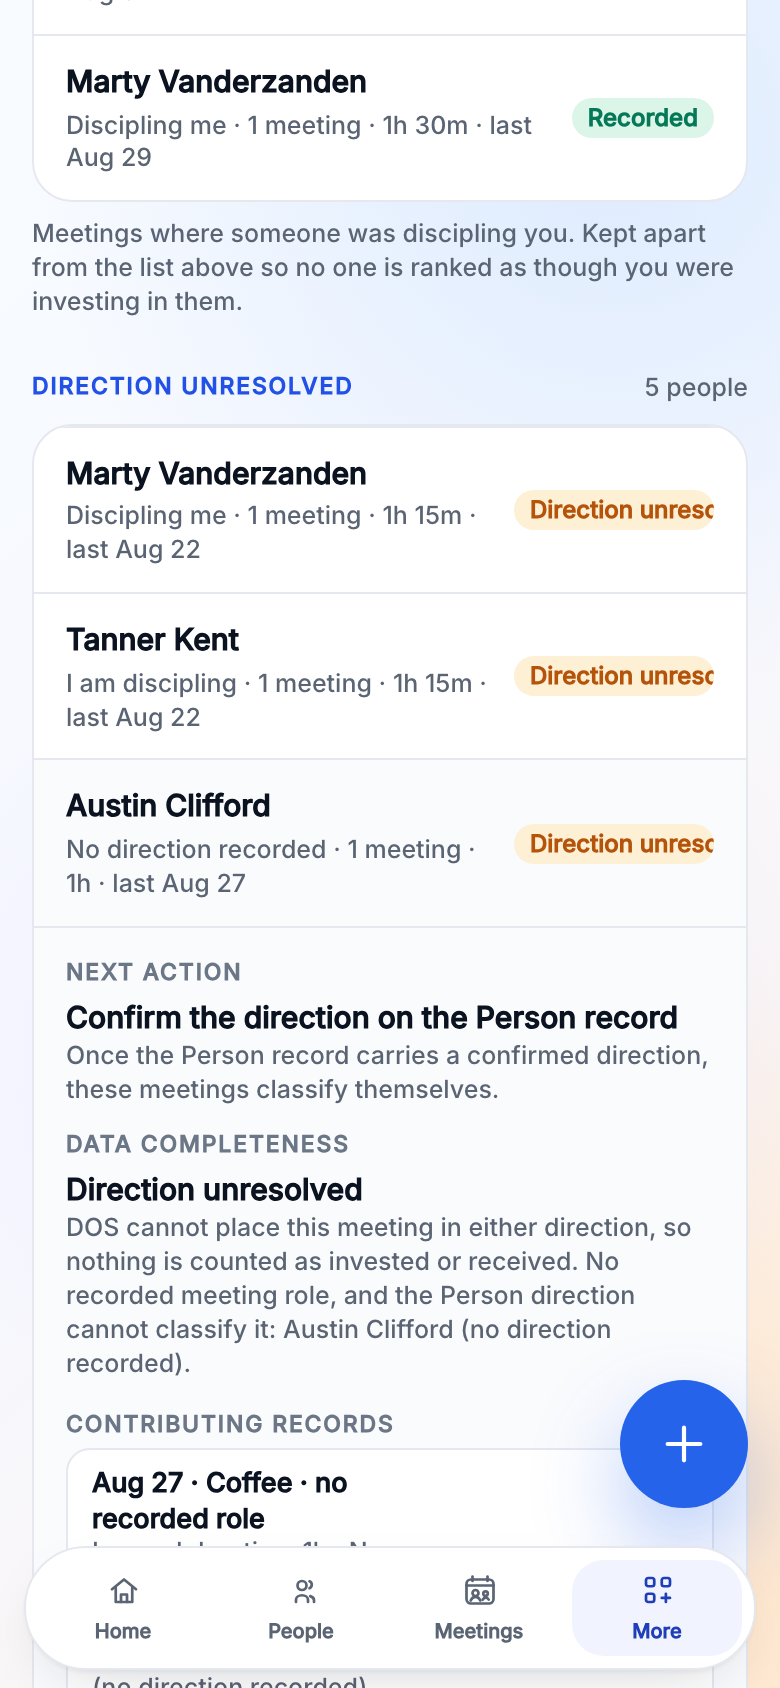
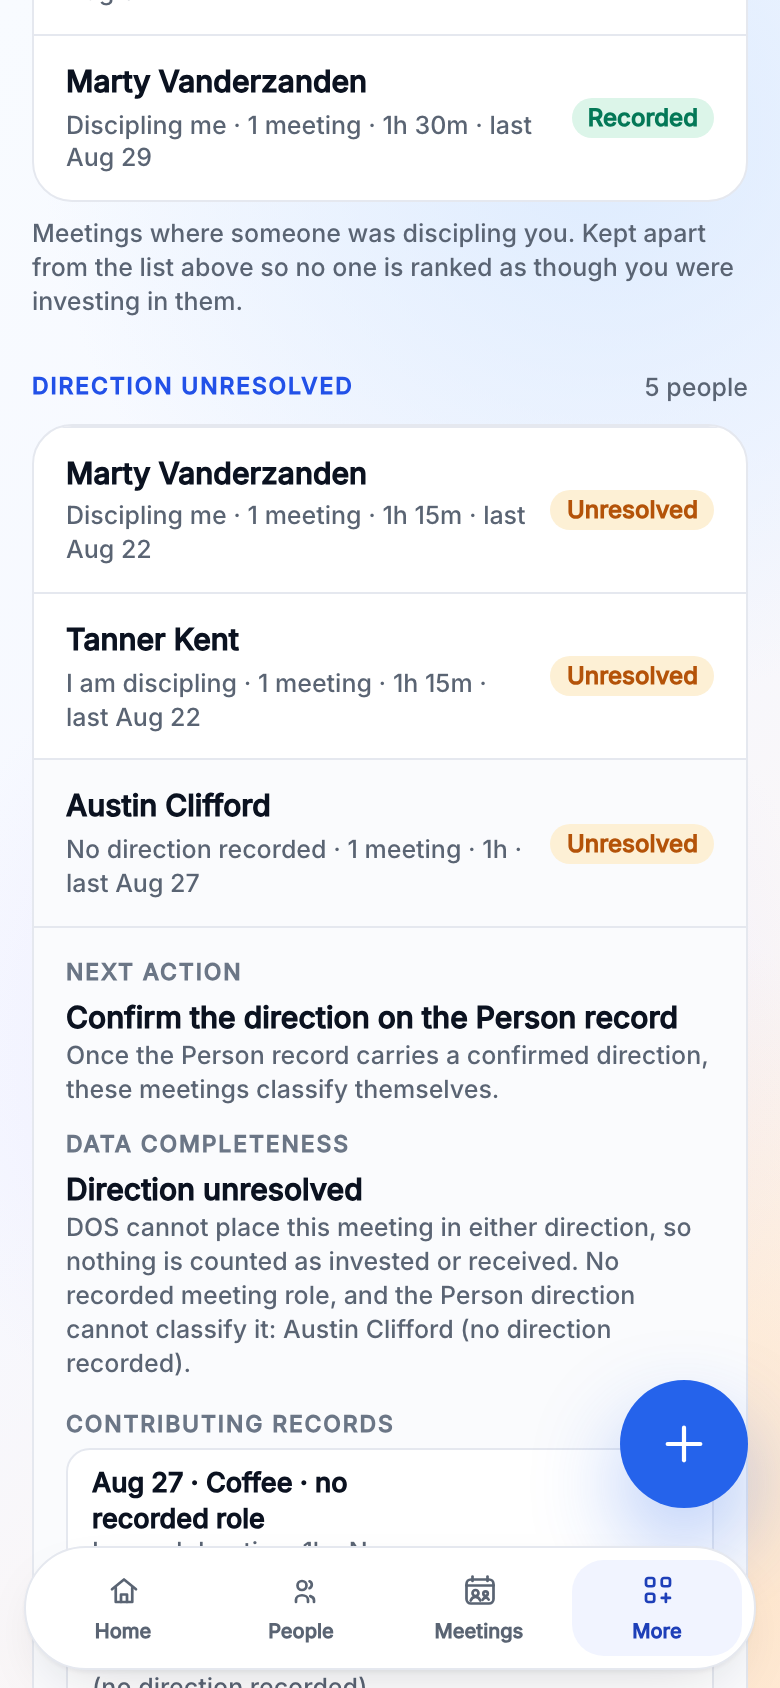
USA-251: short pill label for the Direction unresolved state (the shared StatusPill is 100px by design); screenshots retaken

diff --git a/src/components/dos/reports/MinistryTimeInvestmentReport.tsx b/src/components/dos/reports/MinistryTimeInvestmentReport.tsx
@@ -33,6 +33,16 @@ const completenessTone: Record<DosMinistryCompleteness, StatusTone> = {
   unresolved: "amber",
 };
 
+/* The shared StatusPill is 100px wide by design (spec §3), so the pill
+   carries the short form; the list title and the row detail say
+   "Direction unresolved" in full. */
+const completenessPillLabel: Record<DosMinistryCompleteness, string> = {
+  recorded: "Recorded",
+  partial: "Partial",
+  none: "No activity",
+  unresolved: "Unresolved",
+};
+
 function formatReportDate(dateKey: string, withYear = false) {
   const date = new Date(`${dateKey}T12:00:00`);
 
@@ -189,7 +199,7 @@ function ReportRow({
         <span className="hidden text-dos-body tabular-nums text-dos-primary md:block">{formatDosMinistryMinutes(row.loggedMinutes)}</span>
         <span className="hidden text-dos-body tabular-nums text-dos-primary md:block">{row.bucket === "invested" ? row.checkInCount : "—"}</span>
         <span className="hidden truncate text-dos-meta text-dos-primary md:block">{lastActivity}</span>
-        <span className="flex justify-end md:justify-start"><StatusPill tone={completenessTone[row.completeness]}>{row.completenessLabel}</StatusPill></span>
+        <span className="flex justify-end md:justify-start"><StatusPill tone={completenessTone[row.completeness]}>{completenessPillLabel[row.completeness]}</StatusPill></span>
         <span className="hidden truncate text-dos-meta text-dos-primary md:block">{row.nextAction.label}</span>
         <span className="hidden text-dos-secondary md:flex md:justify-end">
           {expanded ? <ChevronDown aria-hidden="true" className="h-4 w-4" strokeWidth={2} /> : <ChevronRight aria-hidden="true" className="h-4 w-4" strokeWidth={2} />}
